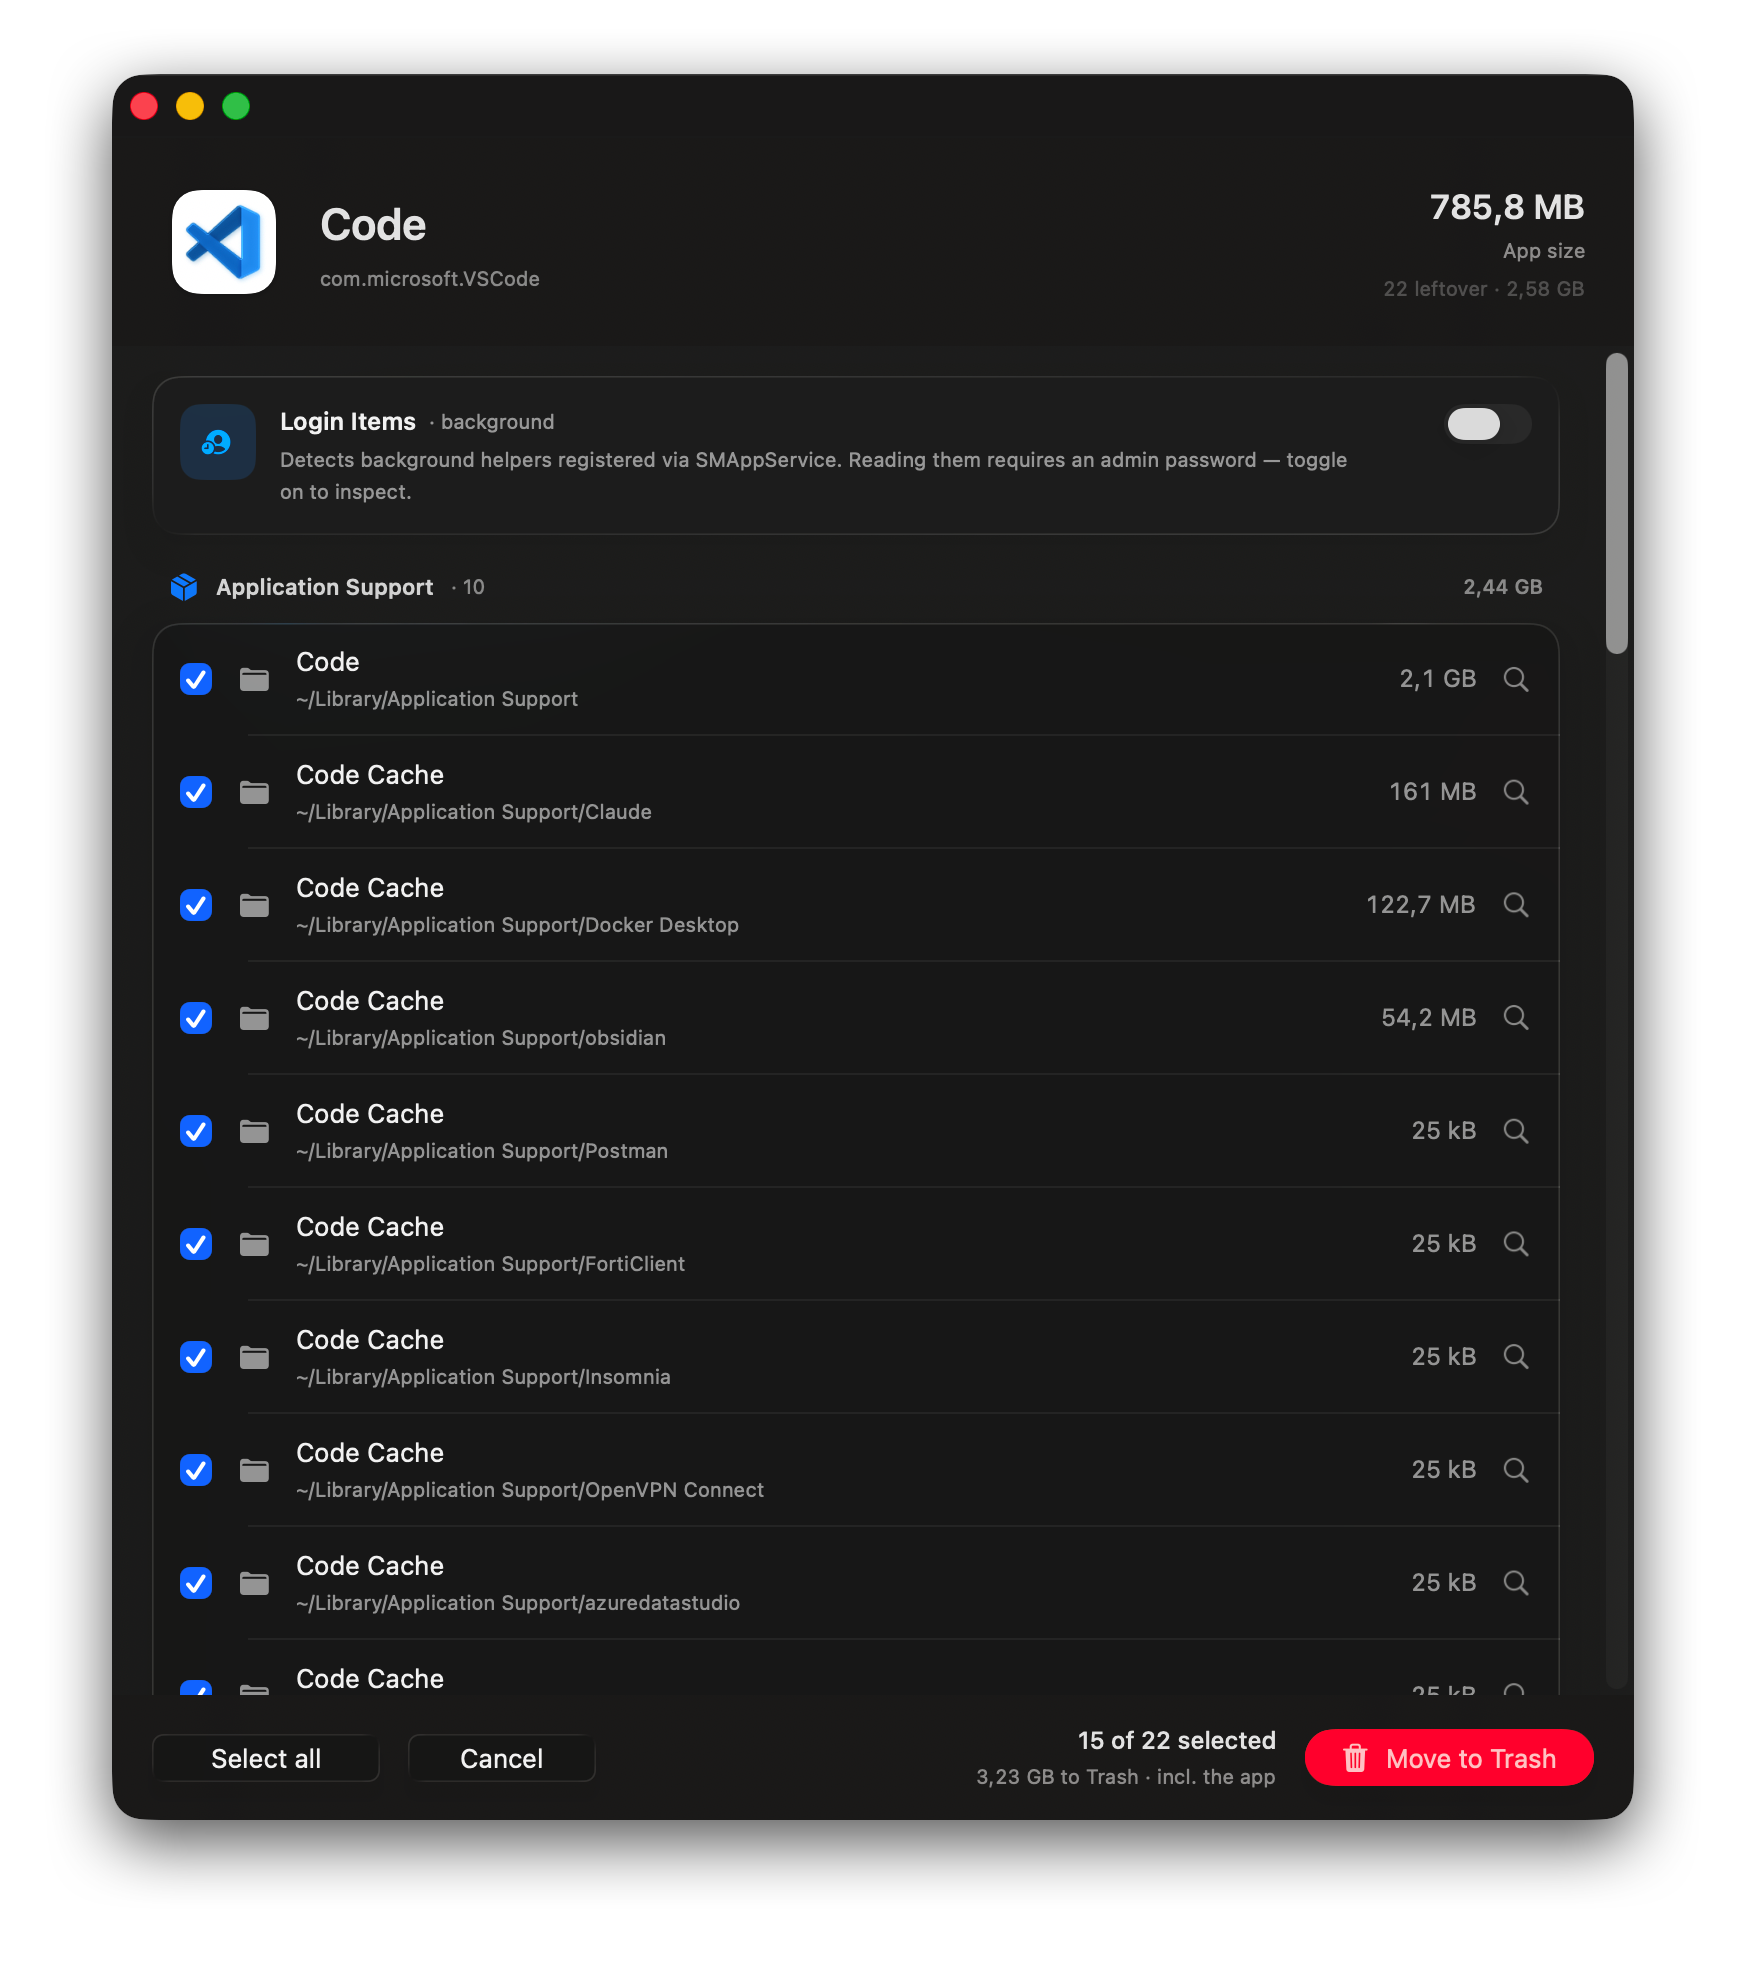
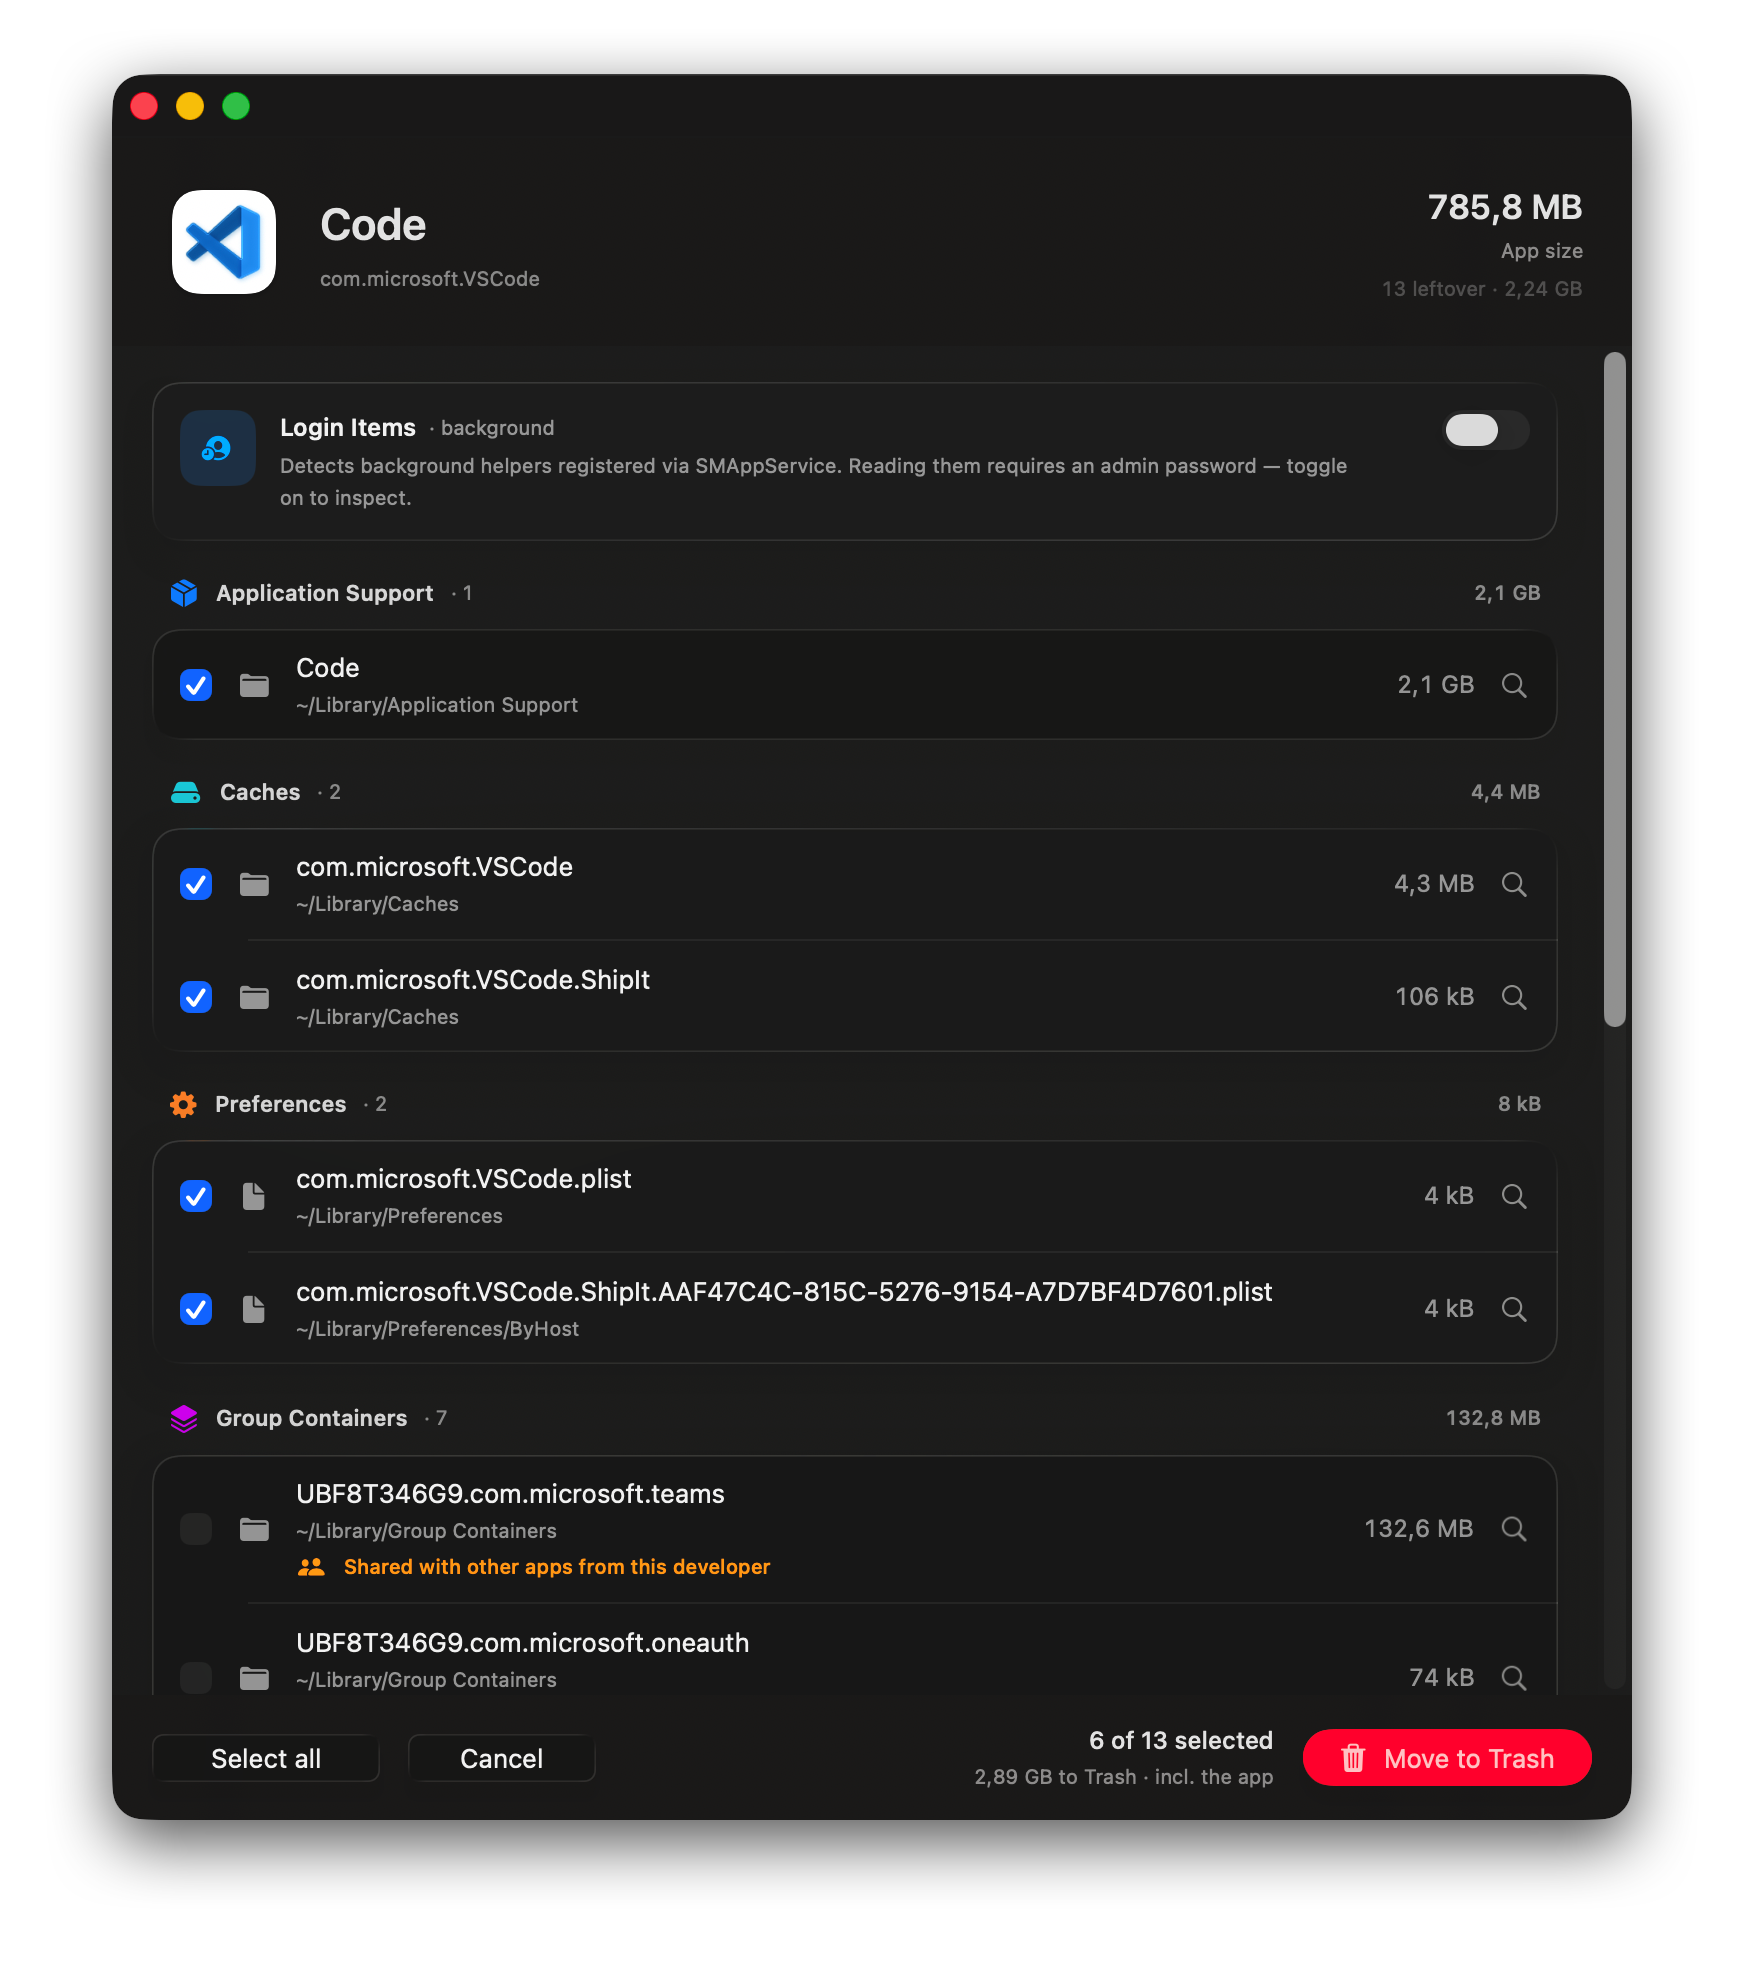
Stop attributing Electron internals to look-alike app names
NameHintMatcher used wordBoundaryPrefix to greenlight any folder
whose name was the dropped app's hint plus a non-letter. That meant
'Code Cache' (Chromium's V8 code cache, present inside every
Electron app's Application Support folder) was attributed to a
dropped VSCode whose hints include 'code'. Same trap for any
generic single-word app name: every Electron product that nests
'Local Storage', 'Network', or similar under a vendor folder got
mis-classified.

Threads a 'descended' flag through AppEntryMatchContext, set to
true whenever AppScanner.scan recurses into a vendor folder.
NameHintMatcher passes it to a new allowSpaceBoundary parameter on
wordBoundaryPrefix; when false, whitespace after the hint no
longer counts as a word boundary. Digit / dot / dash boundaries
still apply, so JetBrains/Rider2024.3-style descents remain
intact. Top-level scans are unaffected — a literal 'Code Cache'
directly under Application Support still matches.

Refreshes the README app-cleanup screenshot with a post-fix VSCode
scan so the docs no longer advertise the false positives.

diff --git a/my-cleanerTests/AppScannerClassifyTests.swift b/my-cleanerTests/AppScannerClassifyTests.swift
@@ -293,4 +293,89 @@ struct AppScannerWordBoundaryTests {
     func nonPrefixFails() {
         #expect(AppScanner.wordBoundaryPrefix("xrider2", prefix: "rider") == false)
     }
+
+    @Test("Tightened boundary rejects space when allowSpaceBoundary is false")
+    func descendedRejectsSpace() {
+        // Plain call (top-level scan) — space still counts as a boundary.
+        #expect(AppScanner.wordBoundaryPrefix("code cache", prefix: "code") == true)
+        // Descended call — space no longer counts, so "Code Cache" inside
+        // some other Electron app's data folder doesn't get attributed to
+        // a dropped app whose name hint is "code".
+        #expect(AppScanner.wordBoundaryPrefix("code cache", prefix: "code", allowSpaceBoundary: false) == false)
+    }
+
+    @Test("Tightened boundary still accepts digit / dot / dash boundaries")
+    func descendedKeepsOtherBoundaries() {
+        // Versioned product folders under a vendor namespace still need
+        // to match when descended (the JetBrains -> Rider2024.3 case).
+        #expect(AppScanner.wordBoundaryPrefix("rider2024.3", prefix: "rider", allowSpaceBoundary: false) == true)
+        #expect(AppScanner.wordBoundaryPrefix("rider.config", prefix: "rider", allowSpaceBoundary: false) == true)
+        #expect(AppScanner.wordBoundaryPrefix("rider-config", prefix: "rider", allowSpaceBoundary: false) == true)
+    }
+}
+
+@Suite("AppScanner.classify — descended Electron internals")
+struct AppScannerClassifyDescendedTests {
+
+    private func makeApp(name: String, bundleID: String?) throws -> DroppedApp {
+        try AppScannerClassifyTestsHelper.makeApp(name: name, bundleID: bundleID)
+    }
+
+    @Test("'Code Cache' inside another app's folder is not attributed to a dropped 'Code' app at descent")
+    func chromiumCodeCacheRejectedOnDescent() throws {
+        // VSCode bundle ID; descended call simulates the second-level
+        // walk inside e.g. ~/Library/Application Support/Docker Desktop/.
+        let app = try makeApp(name: "Code", bundleID: "com.microsoft.VSCode")
+        let entry = URL(fileURLWithPath: "/tmp/Code Cache")
+        let result = AppScanner.classify(
+            entry: entry,
+            app: app,
+            teamID: nil,
+            nameHints: ["code", "vscode"],
+            category: .applicationSupport,
+            descended: true
+        )
+        #expect(result.matched == false)
+    }
+
+    @Test("'Code Cache' at the top of Application Support still matches (legacy behaviour)")
+    func chromiumCodeCacheAcceptedAtTop() throws {
+        // Without descent, the existing word-boundary rule keeps
+        // accepting space, so a literal top-level 'Code Cache' folder
+        // (rare but technically possible) still attributes.
+        let app = try makeApp(name: "Code", bundleID: "com.microsoft.VSCode")
+        let entry = URL(fileURLWithPath: "/tmp/Code Cache")
+        let result = AppScanner.classify(
+            entry: entry,
+            app: app,
+            teamID: nil,
+            nameHints: ["code", "vscode"],
+            category: .applicationSupport,
+            descended: false
+        )
+        #expect(result.matched == true)
+    }
+}
+
+/// Bridge to reuse the private `makeApp` helper from
+/// `AppScannerClassifyTests` without re-implementing the .app bundle
+/// stub. Both suites live in the same file so this just exposes the
+/// existing throwing helper to the new suite.
+private enum AppScannerClassifyTestsHelper {
+    static func makeApp(name: String, bundleID: String?) throws -> DroppedApp {
+        let url = FileManager.default.temporaryDirectory
+            .appendingPathComponent(UUID().uuidString)
+            .appendingPathExtension("app")
+        try FileManager.default.createDirectory(at: url, withIntermediateDirectories: true)
+        let contents = url.appendingPathComponent("Contents", isDirectory: true)
+        try FileManager.default.createDirectory(at: contents, withIntermediateDirectories: true)
+        var plist: [String: Any] = ["CFBundleName": name]
+        if let bundleID { plist["CFBundleIdentifier"] = bundleID }
+        let data = try PropertyListSerialization.data(fromPropertyList: plist, format: .xml, options: 0)
+        try data.write(to: contents.appendingPathComponent("Info.plist"))
+        guard let dropped = DroppedApp(url: url) else {
+            throw NSError(domain: "test", code: 0, userInfo: [NSLocalizedDescriptionKey: "Failed to create DroppedApp"])
+        }
+        return dropped
+    }
 }

diff --git a/my-cleaner/AppScanner.swift b/my-cleaner/AppScanner.swift
@@ -257,7 +257,8 @@ enum AppScanner {
         nameHints: [String],
         extraDepth: Int,
         appPath: String,
-        into found: inout [URL: RelatedItem]
+        into found: inout [URL: RelatedItem],
+        descended: Bool = false
     ) {
         let fm = FileManager.default
         guard let entries = try? fm.contentsOfDirectory(
@@ -276,7 +277,8 @@ enum AppScanner {
                 app: app,
                 teamID: teamID,
                 nameHints: nameHints,
-                category: category
+                category: category,
+                descended: descended
             )
             if outcome.matched {
                 if found[std] == nil {
@@ -304,7 +306,8 @@ enum AppScanner {
                     nameHints: nameHints,
                     extraDepth: extraDepth - 1,
                     appPath: appPath,
-                    into: &found
+                    into: &found,
+                    descended: true
                 )
             }
         }
@@ -337,14 +340,16 @@ enum AppScanner {
         app: DroppedApp,
         teamID: String?,
         nameHints: [String],
-        category: RelatedItem.Category
+        category: RelatedItem.Category,
+        descended: Bool = false
     ) -> (matched: Bool, shared: Bool) {
         let context = AppEntryMatchContext(
             app: app,
             teamID: teamID,
             nameHints: nameHints,
             category: category,
-            entry: entry
+            entry: entry,
+            descended: descended
         )
         for matcher in matchers() {
             if let result = matcher.match(entry: entry, in: context) {
@@ -390,10 +395,22 @@ enum AppScanner {
     /// "Microsoft Word Data". Returns `false` for prefixes shorter than
     /// 3 characters and for exact-equality (handled separately by the
     /// caller).
-    nonisolated static func wordBoundaryPrefix(_ s: String, prefix: String) -> Bool {
+    ///
+    /// When `allowSpaceBoundary` is `false`, whitespace after the
+    /// prefix no longer counts as a boundary. Used at descended
+    /// depths so a hint like "code" doesn't attach itself to
+    /// Chromium internals such as "Code Cache" or "Local Storage"
+    /// inside other Electron apps' data folders.
+    nonisolated static func wordBoundaryPrefix(
+        _ s: String,
+        prefix: String,
+        allowSpaceBoundary: Bool = true
+    ) -> Bool {
         guard prefix.count >= 3, s.count > prefix.count, s.hasPrefix(prefix) else { return false }
         let next = s[s.index(s.startIndex, offsetBy: prefix.count)]
-        return !next.isLetter
+        if next.isLetter { return false }
+        if !allowSpaceBoundary, next.isWhitespace { return false }
+        return true
     }
 
     // MARK: - Code signing

diff --git a/my-cleaner/AppEntryMatcher.swift b/my-cleaner/AppEntryMatcher.swift
@@ -53,12 +53,22 @@ nonisolated struct AppEntryMatchContext: Sendable {
     /// `entry.deletingPathExtension().lastPathComponent.lowercased()`.
     let baseNameLower: String
 
+    /// `true` when this entry came from a vendor-folder descent rather
+    /// than a top-level Library directory walk.
+    ///
+    /// Tightens ``NameHintMatcher`` so a generic name hint like
+    /// "code" doesn't grab Chromium-style internals (`Code Cache`,
+    /// `Local Storage`, …) inside every other Electron app's
+    /// `Application Support/<app>/` folder.
+    let descended: Bool
+
     init(
         app: DroppedApp,
         teamID: String?,
         nameHints: [String],
         category: RelatedItem.Category,
-        entry: URL
+        entry: URL,
+        descended: Bool = false
     ) {
         self.app = app
         self.teamID = teamID
@@ -66,6 +76,7 @@ nonisolated struct AppEntryMatchContext: Sendable {
         self.category = category
         self.fullNameLower = entry.lastPathComponent.lowercased()
         self.baseNameLower = entry.deletingPathExtension().lastPathComponent.lowercased()
+        self.descended = descended
     }
 }
 
@@ -128,15 +139,26 @@ nonisolated struct ICloudBundleMatcher: AppEntryMatcher {
 /// but rejecting another letter immediately after.
 ///
 /// Catches folders like `Rider2024.3`, `Microsoft Word Data`, etc.
+///
+/// When the entry came from a vendor-folder descent (parent isn't
+/// a Library directory itself) the prefix check tightens: a space
+/// after the hint is no longer accepted as a word boundary. That
+/// stops a name hint like "code" from matching every Electron app's
+/// `Application Support/<vendor>/Code Cache` directory.
 nonisolated struct NameHintMatcher: AppEntryMatcher {
     func match(entry: URL, in context: AppEntryMatchContext) -> AppEntryMatch? {
         let full = context.fullNameLower
         let base = context.baseNameLower
+        let allowSpaceBoundary = !context.descended
 
         for hint in context.nameHints {
             if base == hint || full == hint { return AppEntryMatch(shared: false) }
-            if AppScanner.wordBoundaryPrefix(base, prefix: hint) { return AppEntryMatch(shared: false) }
-            if AppScanner.wordBoundaryPrefix(full, prefix: hint) { return AppEntryMatch(shared: false) }
+            if AppScanner.wordBoundaryPrefix(base, prefix: hint, allowSpaceBoundary: allowSpaceBoundary) {
+                return AppEntryMatch(shared: false)
+            }
+            if AppScanner.wordBoundaryPrefix(full, prefix: hint, allowSpaceBoundary: allowSpaceBoundary) {
+                return AppEntryMatch(shared: false)
+            }
         }
         return nil
     }
